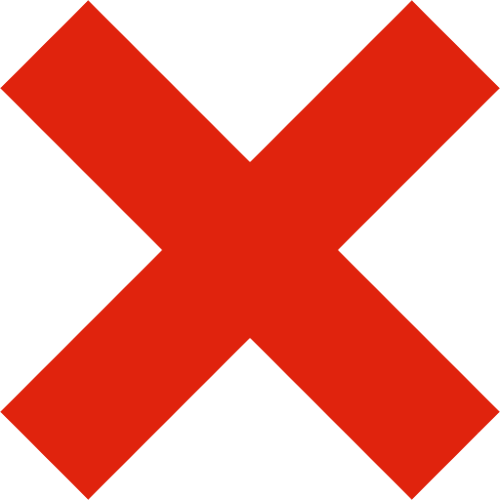
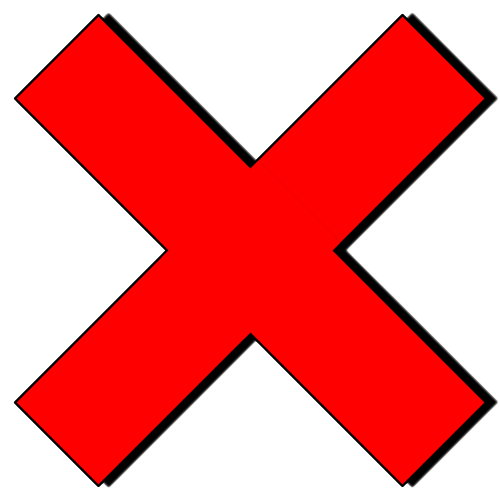
up

diff --git a/materials/courses/beginner/class-13/classwork-3&4-review-quiz.html b/materials/courses/beginner/class-13/classwork-3&4-review-quiz.html
@@ -12,20 +12,18 @@
 
 <style>
   .answer > [data-correct]:checked + label::after {
-    background-image: url(../../../../assets/imgs/correct.svg);
+    background-image: url(../../../../assets/imgs/correct.png);
   }
 
   .answer > :checked + label::after {
     content: "";
-    background-image: url(../../../../assets/imgs/incorrect.svg);
+    background-image: url(../../../../assets/imgs/incorrect.png);
     background-size: contain;
     background-repeat: no-repeat;
     width: 18px;
     height: 18px;
     display: inline-block;
     margin-left: .5em;
-    position: relative;
-    top: .10rem;
   }
 </style>
 
